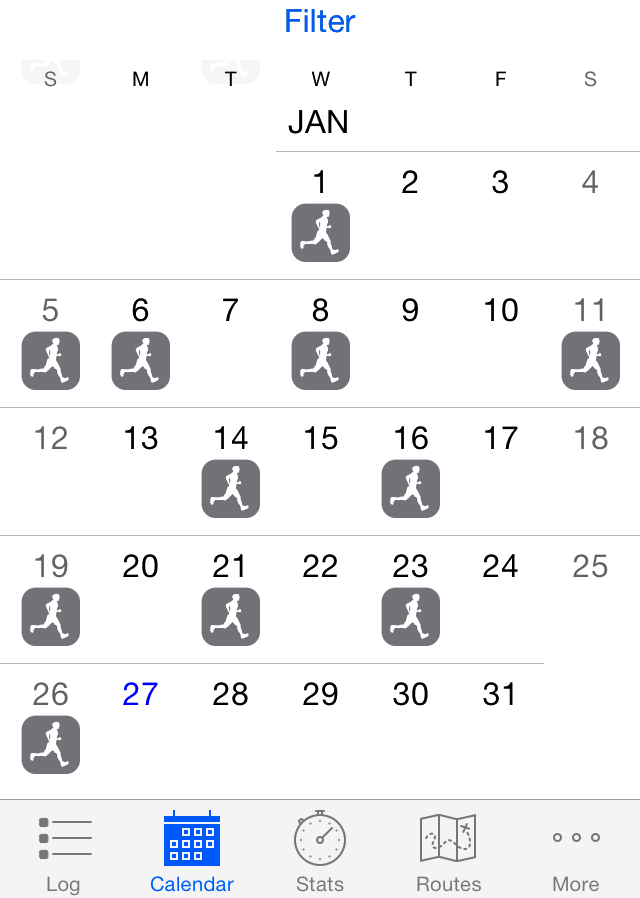
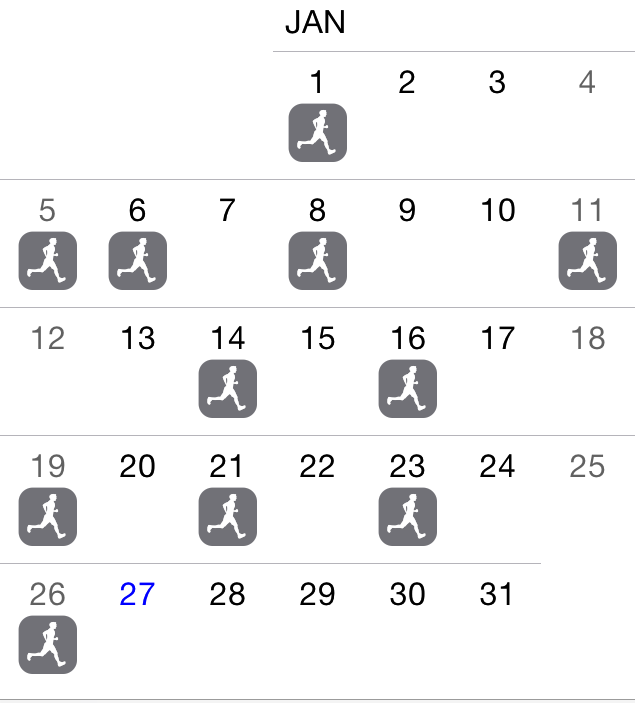
finish main display

diff --git a/styles/main.css b/styles/main.css
@@ -27,38 +27,92 @@ nav {
 
 main {
   width: 75%;
-  background-color: bisque;
+  background-color: #42C3D4;
   display: flex;
   flex-direction: column;
 }
 
+main h3 {
+  margin-bottom: 15px;
+  color: #42C3D4;
+  font-size: 25px;
+}
+
 header {
   height: 20vh;
-  background-color: #BB7E7E;
+  align-items: center;
   display: flex;
+  justify-content: space-between;
+  padding: 20px;
+}
+
+.hamburger-nav {
+  height: 60px;
+  width: 60px;
+}
+.hamburger-nav img {
+  height: 60px;
+  width: 60px;
+}
+
+h1 {
+  display: flex;
+  flex-direction: column;
+  color: #FFF;
+  font-size: 50px;
+  text-align: center;
+}
+
+h1 span {
+  
 }
 
 .user-wrapper {
   display: flex;
   flex-direction: column;
+  align-items: center;
+  justify-content: space-between;
+  padding: 5px;
+  color: #FFF;
+  font-size: 20px;
+}
+
+.user-logo {
+  height: 60px;
+  width: 60px;
+  margin-bottom: 5px;
 }
 
 .goals-calendar-wrapper {
   display: flex;
   justify-content: space-between;
   margin-bottom: 10px;
+  background-color: #42C3D4;
 }
 
 .goals-calendar {
-  height: 50vh;
+  padding: 15px;
   width: 49.5%;
-  background-color: #CDCDA7;
+  background-color: #FFF;
   display: flex;
   flex-direction: column;
+  align-items: center;
+}
+
+.goals-calendar img {
+  height: 400px;
+  width: 85%;
 }
 
 .movement-log {
   display: flex;
+  align-items: center;
   flex-direction: column;
-  background-color: #B794B7;
+  padding: 15px;
+  background-color: #FFF;
+}
+
+.movement-log img {
+  height: 500px;
+  width: 70%;
 }

diff --git a/index.html b/index.html
@@ -27,28 +27,28 @@
 
     <main>
       <header>
-        <div class="hamburger-nav"></div>
+        <div class="hamburger-nav"><img src="assets/icon-hamburger.png" alt="menu icon"></div>
         <h1>GRANNY <span>TRACKER</span> </h1>
         <div class="user-wrapper">
-          <img class="user-logo" src="" alt="">
+          <img class="user-logo" src="assets/granny-white.png" alt="granny logo">
           <p class="user-name">Hi, Mildred</p>
         </div>
       </header>
-      
+
       <section class="goals-calendar-wrapper">
         <article class="goals-calendar">
           <h3>GOALS</h3>
-          <img src="" alt="">
+          <img src="assets/goals.jpg" alt="goals graphs and tables">
         </article>
         <article class="goals-calendar">
           <h3>CALENDAR</h3>
-          <img src="" alt="">
+          <img src="assets/calendar.png" alt="calendar for workouts">
         </article>
       </section>
-      
+
       <section class="movement-log">
         <h3>MOVEMENT LOG</h3>
-        <img src="" alt="">
+        <img src="assets/worklog.png" alt="workout log">
       </section>
     </main>
 </body>
